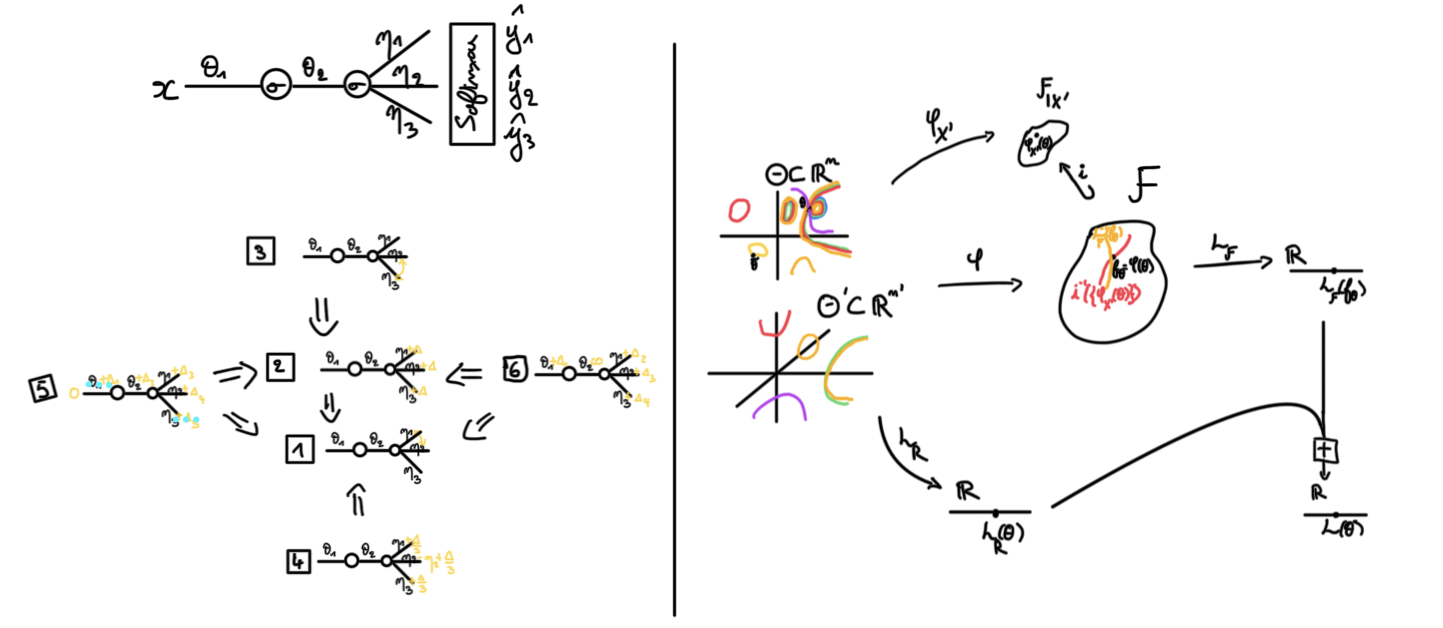
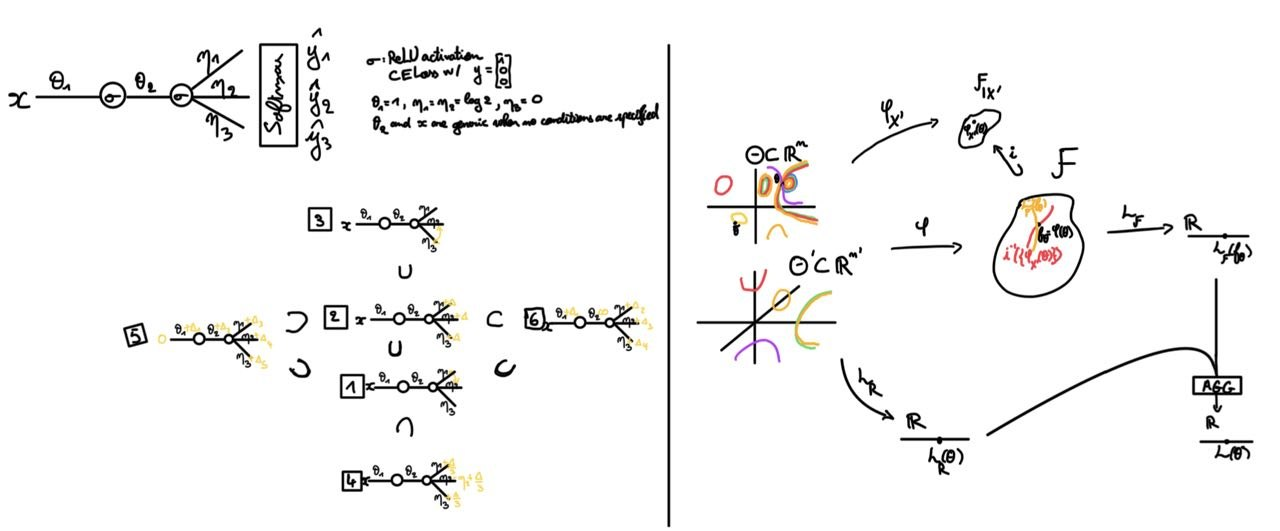
feat(main): param space sym figure edition and captioning

diff --git a/main.tex b/main.tex
@@ -2366,11 +2366,12 @@ The error landscape studied by \citet{pittorino2022jsm} possesses more symmetrie
 \begin{figure}[ht]
     \centering
     \includegraphics[width=0.9\textwidth]{images/draft/param-space-symmetries.png}
-    \caption{\textbf{Left.} \textbf{Right.}}
+    \caption{\textbf{Left.} Inclusion of transformations applicable to (1) symmetric states $\left \{g: g\theta=\theta\right \}$; (2) general symmetry $\left \{g: f_\theta = f_{g\theta} \right \}$ ; (3) loss symmetry  when the loss factors through the implementation map $\left \{g:\mathcal{L}(f_{g\theta})=\mathcal{L}(f_{\theta})\right \}$; (4) general loss symmetry $\left \{g:\mathcal{L}(g\theta)=\mathcal{L}(\theta) \right \}$; (5) data-dependent functional symmetry $\left \{g: {(f_{g\theta})}_{\vert X'}={(f_{\theta})}_{\vert X'}\right \}$ for $X'\subsetneq X$; (6) instance-dependent functional symmetry $\left \{g: \theta\in U \Rightarrow f_{g\theta}=f(\theta) \right \}$ for $U\subsetneq \Theta.$
+    Note that (3) and (4) can intersect (e.g. neurons permutations in MLP with $l_p$ regularization for (4)), but none is included in the other.
+    The illustration is not exhaustive,: data-dependent and instance symmetries can act at the loss level or be combined.
+    \textbf{Right.}}
     \label{fig:param-space-symmetries}
 \end{figure}
-
-
 
 \subsection{Description of Parameter-Space Symmetries}\label{sec:descr-param-space-symmetries}
 We start by a describing the main parameter space symmetries in \Cref{sec:catalog-param-space-symmetries}, then investigate their consequences in the rest of this subsection.
